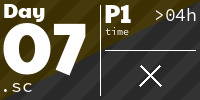
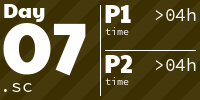
feat(day07): part 2

diff --git a/README.md b/README.md
@@ -2,7 +2,7 @@
 
 <!-- AOC TILES BEGIN -->
 <h1 align="center">
-  2025 - 13 ⭐ - SuperCollider
+  2025 - 14 ⭐ - SuperCollider
 </h1>
 <a href="2025/day01.sc">
   <img src=".aoc_tiles/tiles/2025/01.png" width="161px">
